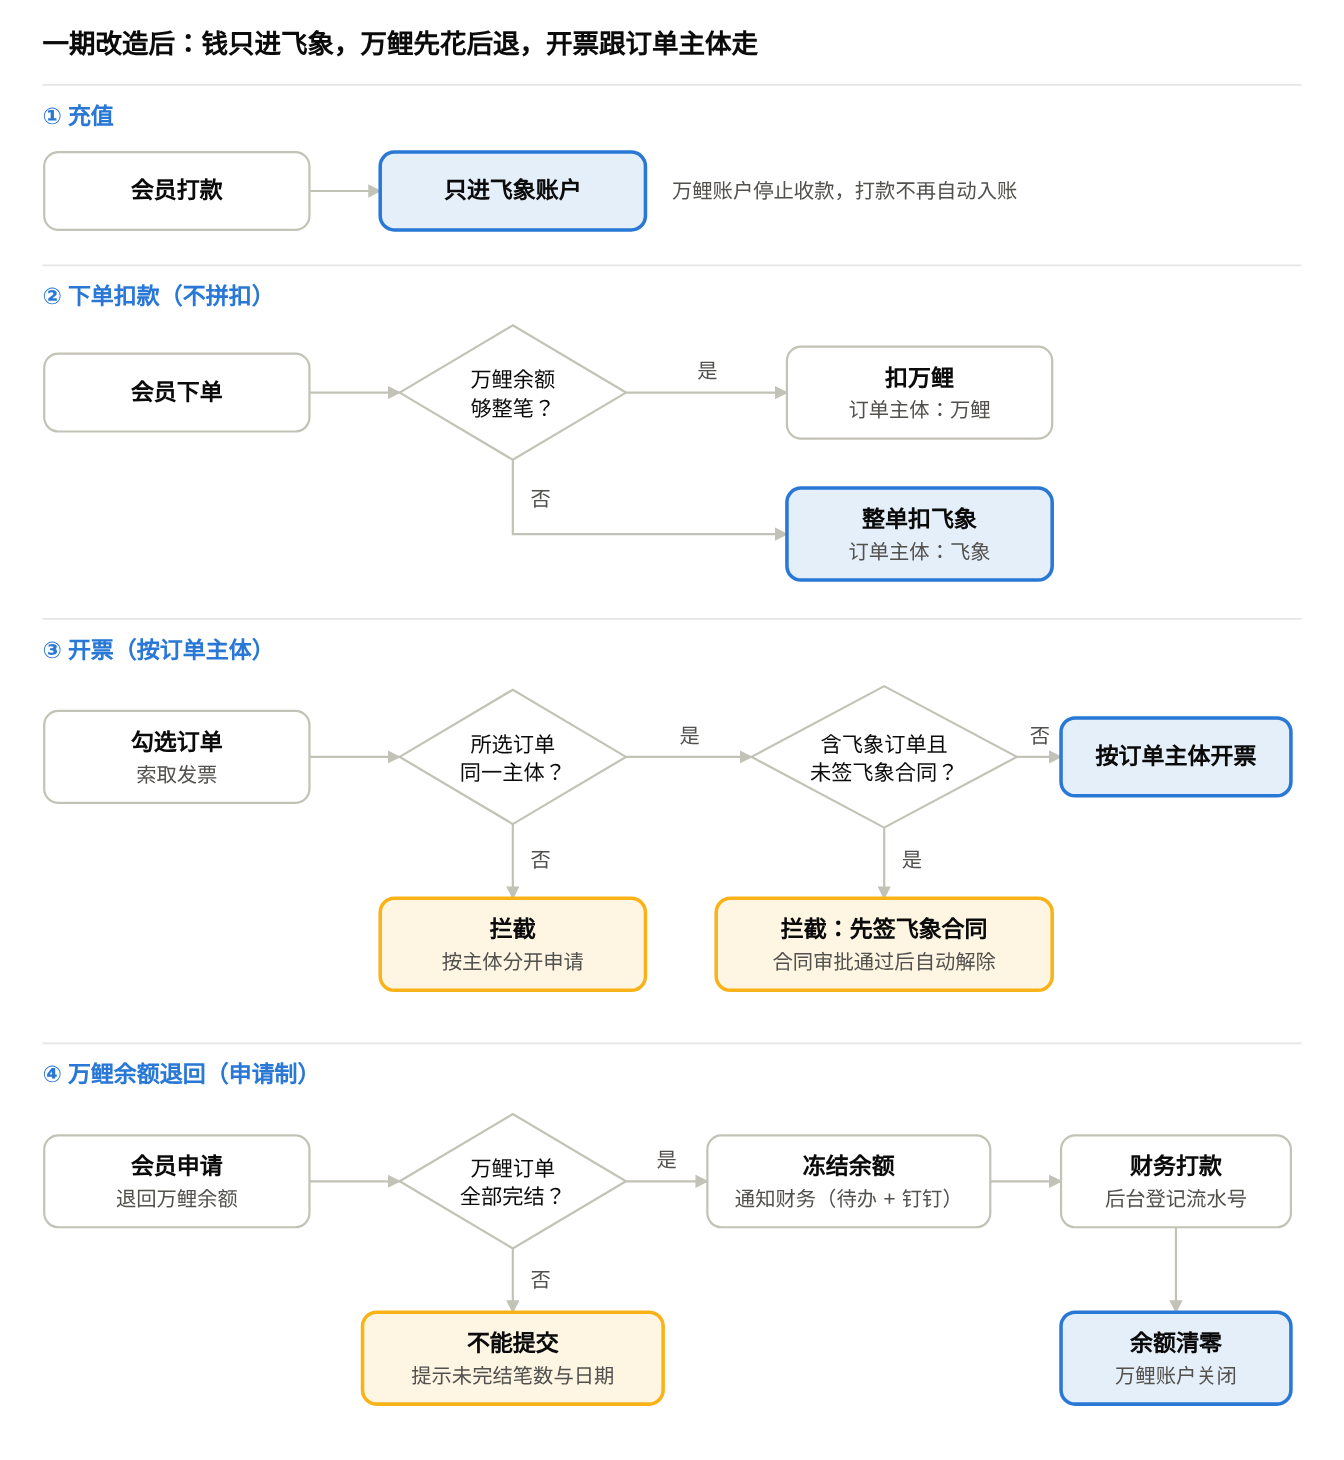
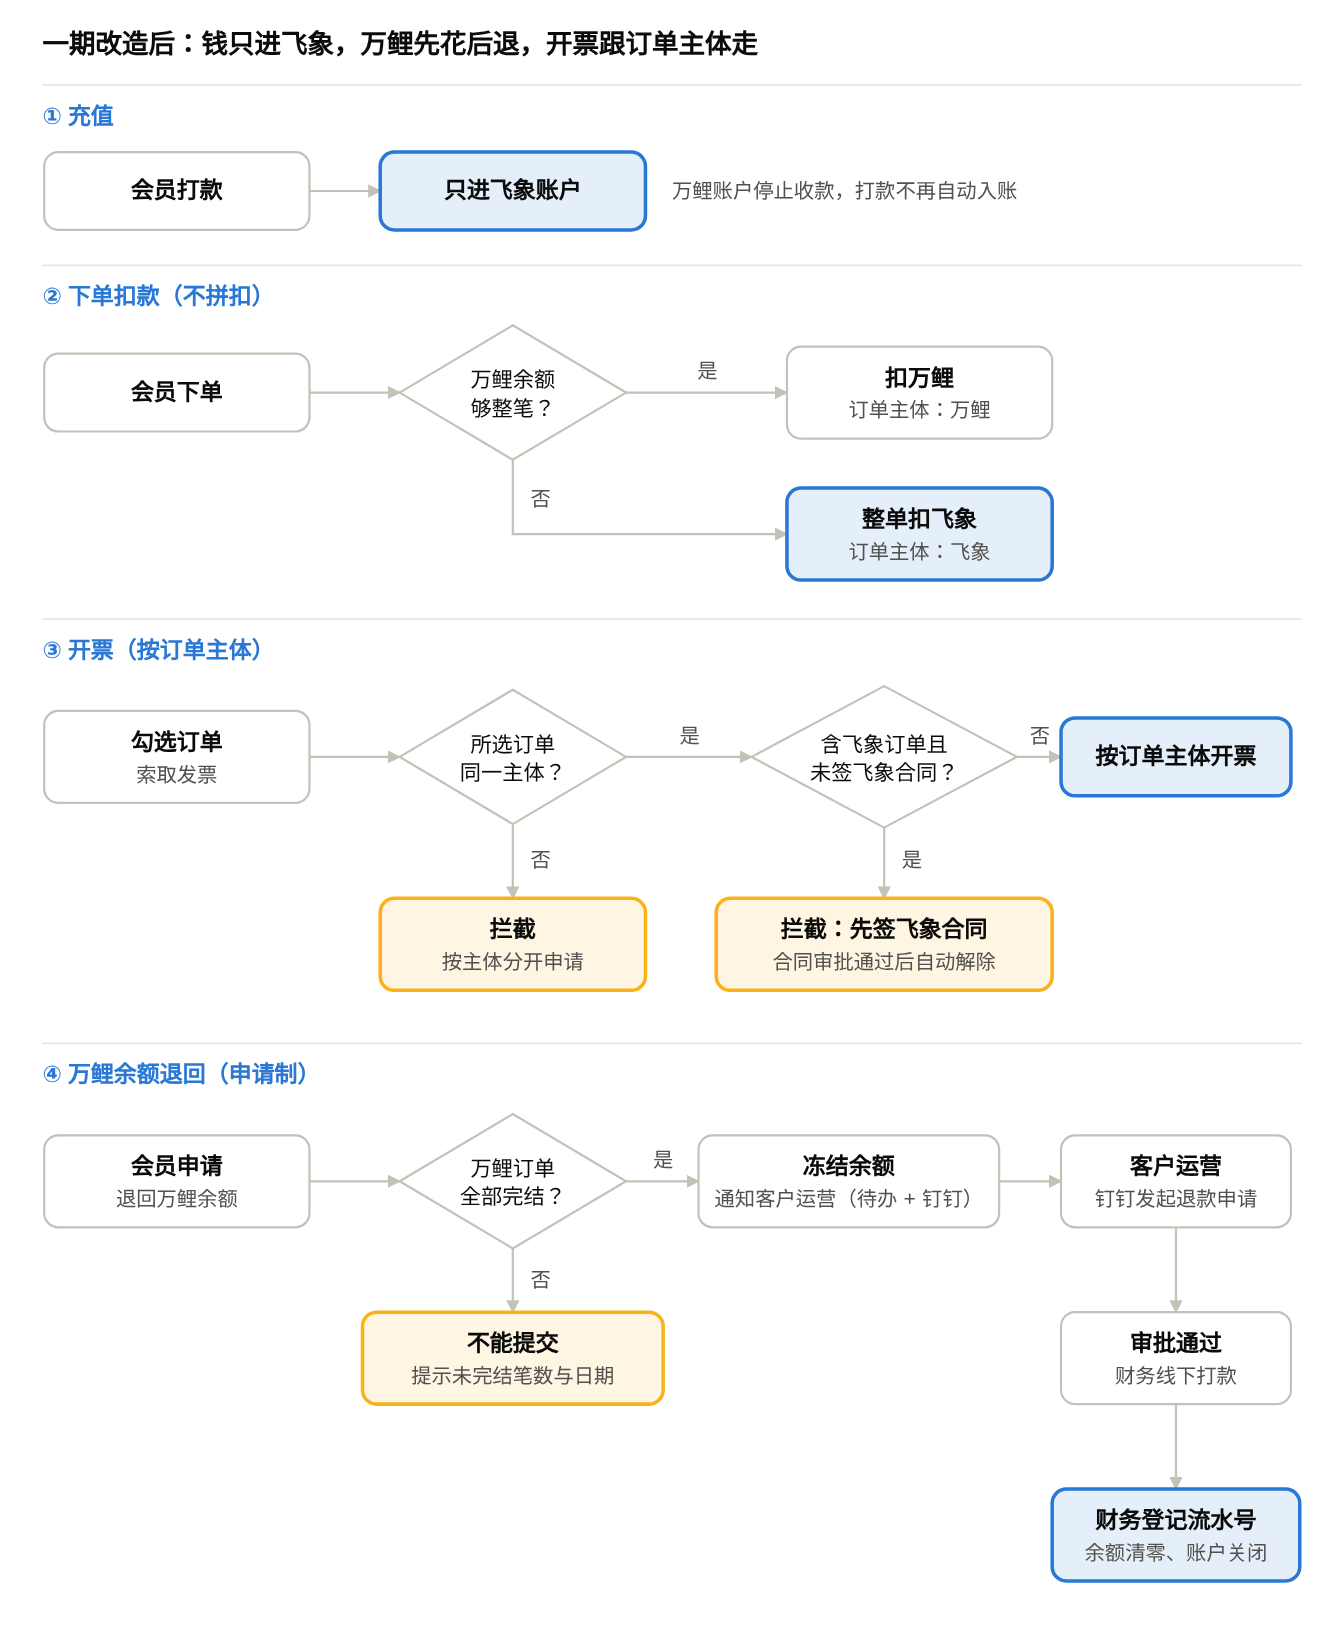
预付款一期：万鲤余额退回改为客户运营钉钉发起退款审批 (#20)
- 流程：会员申请 → 冻结 → 通知客户运营 → 钉钉退款审批 → 财务打款 → 登记流水号后清零
- 更新流程图、需求清单 T3/N1、角色职责、待确认事项

Claude-Session: https://claude.ai/code/session_013Z13MAnvc9ybyCsuEtFVvR

diff --git a/docs/q4/prepay-p1.html b/docs/q4/prepay-p1.html
@@ -49,7 +49,7 @@ input[type=checkbox]{margin-right:6px}
 <a class="btn" href="../">全部文档</a></div></header>
 <div class="wrap"><nav class="toc" aria-label="目录"><b>目录</b><a href="#h-一-范围与原则">一、范围与原则</a><a href="#h-二-改造流程">二、改造流程</a><a href="#h-三-需求清单">三、需求清单</a><a href="#h-四-里程碑">四、里程碑</a><a href="#h-五-上线后各角色职责">五、上线后各角色职责</a><a href="#h-六-待确认事项">六、待确认事项</a></nav>
 <article><h1 id="h-预付款升级-一期-改造说明">预付款升级（一期）改造说明</h1>
-<div class="docmeta"><span class="pill new">最新</span><span class="pill kind">改造说明</span><span>最后更新 2026-11-25 22:36</span></div>
+<div class="docmeta"><span class="pill new">最新</span><span class="pill kind">改造说明</span><span>最后更新 2026-11-26 16:10</span></div>
 <p>2026-11-25</p>
 <p>一期把商品预付款从万鲤切到飞象：<strong>新钱只进飞象，万鲤余额先花、花不完的退回，开票跟着订单主体走</strong>。2026-12-15 前开发测完，2026-12-31 前灰度上线并全部切换。</p>
 <h2 id="h-一-范围与原则">一、范围与原则</h2>
@@ -204,15 +204,15 @@ input[type=checkbox]{margin-right:6px}
 <td>T3</td>
 <td>退款</td>
 <td>退款申请列表与登记</td>
-<td>运营后台（财务）</td>
-<td>财务登记打款流水号后，万鲤余额清零、账户关闭、通知会员</td>
+<td>运营后台（客户运营 / 财务）</td>
+<td>客户运营据此在钉钉发起退款申请；审批通过、财务打款后，财务在后台登记流水号，冻结余额清零、账户关闭、通知会员</td>
 </tr>
 <tr>
 <td>N1</td>
 <td>通知</td>
 <td>待办 + 钉钉群机器人</td>
 <td>运营后台</td>
-<td>飞象合同待审批 → 客户运营；万鲤余额退款申请 → 财务</td>
+<td>飞象合同待审批 → 客户运营；万鲤余额退回申请 → 客户运营</td>
 </tr>
 <tr>
 <td>P1</td>
@@ -295,14 +295,14 @@ input[type=checkbox]{margin-right:6px}
 </tr>
 <tr>
 <td>客户运营</td>
-<td>老客户的迁移沟通与合同审批</td>
-<td>上线前通知老客户；处理「飞象合同待审批」待办，按法务标准审核；解答双账户、开票拦截、退款的咨询</td>
+<td>老客户的迁移沟通、合同审批、发起万鲤余额退款申请</td>
+<td>上线前通知老客户；处理「飞象合同待审批」待办，按法务标准审核；收到「万鲤余额退回」待办后在钉钉发起退款申请；解答双账户、开票拦截、退款的咨询</td>
 <td>不操作退款打款</td>
 </tr>
 <tr>
 <td>财务</td>
 <td>两个主体的对账、开票和万鲤余额退款</td>
-<td>按万鲤 / 飞象分别对账开票；处理「万鲤余额退款」待办：核对金额、线下打款、后台登记流水号；处理误打到万鲤账户的款项</td>
+<td>按万鲤 / 飞象分别对账开票；钉钉退款审批通过后线下打款，并在后台登记流水号（登记后冻结余额自动清零）；处理误打到万鲤账户的款项</td>
 <td>不审核合同</td>
 </tr>
 <tr>
@@ -328,6 +328,7 @@ input[type=checkbox]{margin-right:6px}
 <li>☐ 财务处理退款的时效要求。</li>
 <li>☐ 误打到万鲤账户的款项能否主动退回。</li>
 <li>☐ 客户运营、财务各推到哪个钉钉群；页面提示里展示的客户运营联系方式。</li>
+<li>☐ 钉钉退款审批的审批链（谁审批）。</li>
 </ul>
-<p>完整需求见《会员开通与财务结算改造 需求文档》第五节。</p><hr><p class="meta">最后更新 2026-11-25 22:36（北京时间）· 同步自 Claude 文档 2026-11-25 · Markdown 原文：<a href="prepay-p1.md">prepay-p1.md</a></p></article></div>
+<p>完整需求见《会员开通与财务结算改造 需求文档》第五节。</p><hr><p class="meta">最后更新 2026-11-26 16:10（北京时间）· 同步自 Claude 文档 2026-11-26 · Markdown 原文：<a href="prepay-p1.md">prepay-p1.md</a></p></article></div>
 </body></html>

diff --git a/docs/index.html b/docs/index.html
@@ -162,10 +162,10 @@ a{color:var(--brand-700)}
 <span class="i-main"><span class="i-title">商品库可被 AI 调用：任务拆解与可行性</span><span class="i-desc">商品库可被 AI 调用：5 层 22 项任务拆解、买卖家交互点与可行性判断。</span></span>
 <span class="i-tags"><span class="pill kind">可行性</span><span class="pill new">最新</span></span>
 <span class="i-date"><b>2026-11-03</b><span>10:25</span></span></a></div></section><section class="grp" id="V4"><div class="g-head"><h2>V4 · 12/31 前</h2><span class="g-sub">项目供货价、商家数据回传</span></div><p class="empty">暂无独立文档。本版范围见版本规划 V4 一节。</p></section>
-<section class="grp" id="会员与结算"><div class="g-head"><h2>会员与结算</h2><span class="g-sub">预付款万鲤迁移飞象（一期）、会员准入、结算开票</span><span class="g-last">最近更新 2026-11-25</span></div><div class="list"><a class="item" href="q4/prepay-p1.html">
+<section class="grp" id="会员与结算"><div class="g-head"><h2>会员与结算</h2><span class="g-sub">预付款万鲤迁移飞象（一期）、会员准入、结算开票</span><span class="g-last">最近更新 2026-11-26</span></div><div class="list"><a class="item" href="q4/prepay-p1.html">
 <span class="i-main"><span class="i-title">预付款升级（一期）改造说明</span><span class="i-desc">万鲤迁到飞象：改造流程图（充值、扣款、开票、万鲤余额退回）、19 项需求清单与验收标准、里程碑、上线后各角色职责。</span></span>
 <span class="i-tags"><span class="pill kind">改造说明</span><span class="pill new">最新</span></span>
-<span class="i-date"><b>2026-11-25</b><span>22:36</span></span></a></div></section>
+<span class="i-date"><b>2026-11-26</b><span>16:10</span></span></a></div></section>
 <section class="grp" id="C端AI选品"><div class="g-head"><h2>C端AI选品</h2><span class="g-sub">C 端兑换商城搜索页 AI 选品助手：PRD、规则配置、开通申请与审核</span><span class="g-last">最近更新 2026-11-18</span></div><div class="list"><a class="item" href="q4/ai-select-prd.html">
 <span class="i-main"><span class="i-title">AI选品助手 PRD V1.0（C端兑换商城）</span><span class="i-desc">搜索页「怎么买」AI 选品：额度与三方支付边界、计次与 token 池、推荐排序（含利润加权）、会员申请 + 平台审核开通。</span></span>
 <span class="i-tags"><span class="pill kind">PRD</span><span class="pill new">最新</span></span>

diff --git a/docs/q4/prepay-p1.md b/docs/q4/prepay-p1.md
@@ -45,8 +45,8 @@
 | H2 | 合同 | 客户详情展示合同状态与双账户余额 | 运营后台 | 客户运营能查到飞象合同是否已签、两个账户余额 |
 | T1 | 退款 | 万鲤余额退回申请 | 会员端 · 账户管理 | 提交时校验万鲤订单全部完结；不满足时提示未完结笔数和预计可申请日期 |
 | T2 | 退款 | 申请后冻结万鲤余额 | 后台 | 申请提交即冻结，之后下单只扣飞象 |
-| T3 | 退款 | 退款申请列表与登记 | 运营后台（财务） | 财务登记打款流水号后，万鲤余额清零、账户关闭、通知会员 |
-| N1 | 通知 | 待办 + 钉钉群机器人 | 运营后台 | 飞象合同待审批 → 客户运营；万鲤余额退款申请 → 财务 |
+| T3 | 退款 | 退款申请列表与登记 | 运营后台（客户运营 / 财务） | 客户运营据此在钉钉发起退款申请；审批通过、财务打款后，财务在后台登记流水号，冻结余额清零、账户关闭、通知会员 |
+| N1 | 通知 | 待办 + 钉钉群机器人 | 运营后台 | 飞象合同待审批 → 客户运营；万鲤余额退回申请 → 客户运营 |
 | P1 | 提示 | 充值页迁移提示 | 会员端 · 充值页 | 显示「已切换为飞象，请勿再向万鲤打款」，附合同变更说明和客户运营联系方式 |
 | G1 | 灰度 | 灰度开关 | 后台 | 可按客户分批启用以上全部规则 |
 
@@ -68,8 +68,8 @@
 | --- | --- | --- | --- |
 | 会员（客户） | 向飞象充值、开票、申请退回万鲤余额 | 只向飞象账户打款；按结算主体分开索取发票；万鲤订单全部完结后提交退回申请；与飞象签新合同 | 不能再向万鲤充值 |
 | 销售 | 推动老客户签飞象新合同 | 签约后把合同扫描件上传后台；合同被驳回时按原因修改重传 | 不审核合同 |
-| 客户运营 | 老客户的迁移沟通与合同审批 | 上线前通知老客户；处理「飞象合同待审批」待办，按法务标准审核；解答双账户、开票拦截、退款的咨询 | 不操作退款打款 |
-| 财务 | 两个主体的对账、开票和万鲤余额退款 | 按万鲤 / 飞象分别对账开票；处理「万鲤余额退款」待办：核对金额、线下打款、后台登记流水号；处理误打到万鲤账户的款项 | 不审核合同 |
+| 客户运营 | 老客户的迁移沟通、合同审批、发起万鲤余额退款申请 | 上线前通知老客户；处理「飞象合同待审批」待办，按法务标准审核；收到「万鲤余额退回」待办后在钉钉发起退款申请；解答双账户、开票拦截、退款的咨询 | 不操作退款打款 |
+| 财务 | 两个主体的对账、开票和万鲤余额退款 | 按万鲤 / 飞象分别对账开票；钉钉退款审批通过后线下打款，并在后台登记流水号（登记后冻结余额自动清零）；处理误打到万鲤账户的款项 | 不审核合同 |
 | 法务 | 合同审核标准 | 维护合同审核标准；签约主体错误时推动重新签约 | 不逐单审核 |
 | 研发 / 技术支持 | 系统规则正确运行 | 监控扣款、主体记录和开票拦截是否正确；管理灰度开关；配合财务处理误打款 | 不处理业务审批 |
 
@@ -81,5 +81,6 @@
 - [ ] 财务处理退款的时效要求。
 - [ ] 误打到万鲤账户的款项能否主动退回。
 - [ ] 客户运营、财务各推到哪个钉钉群；页面提示里展示的客户运营联系方式。
+- [ ] 钉钉退款审批的审批链（谁审批）。
 
 完整需求见《会员开通与财务结算改造 需求文档》第五节。
